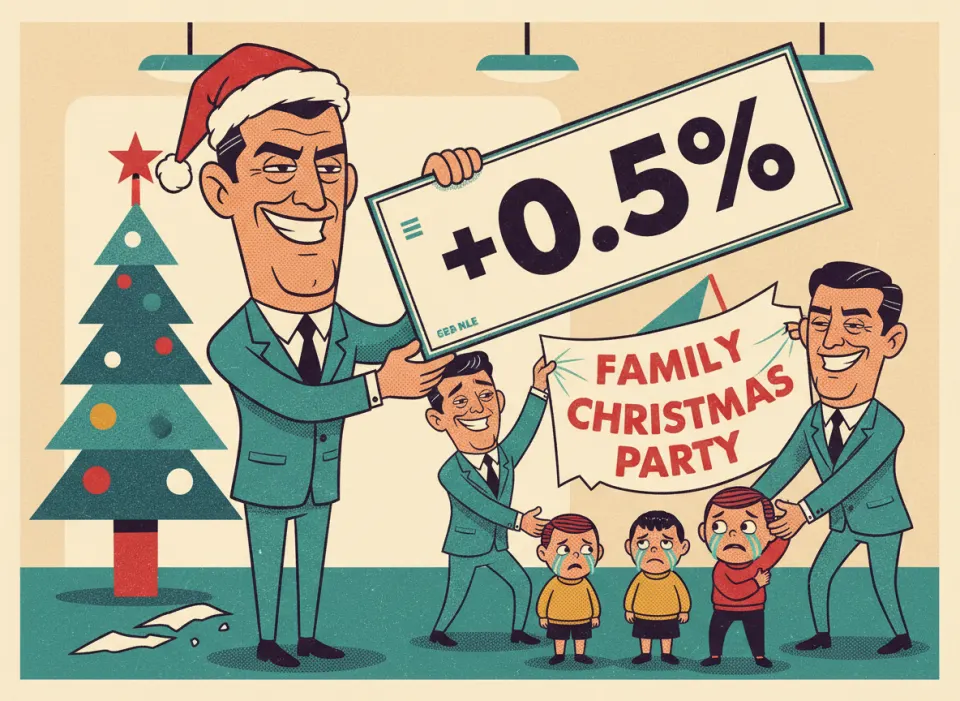
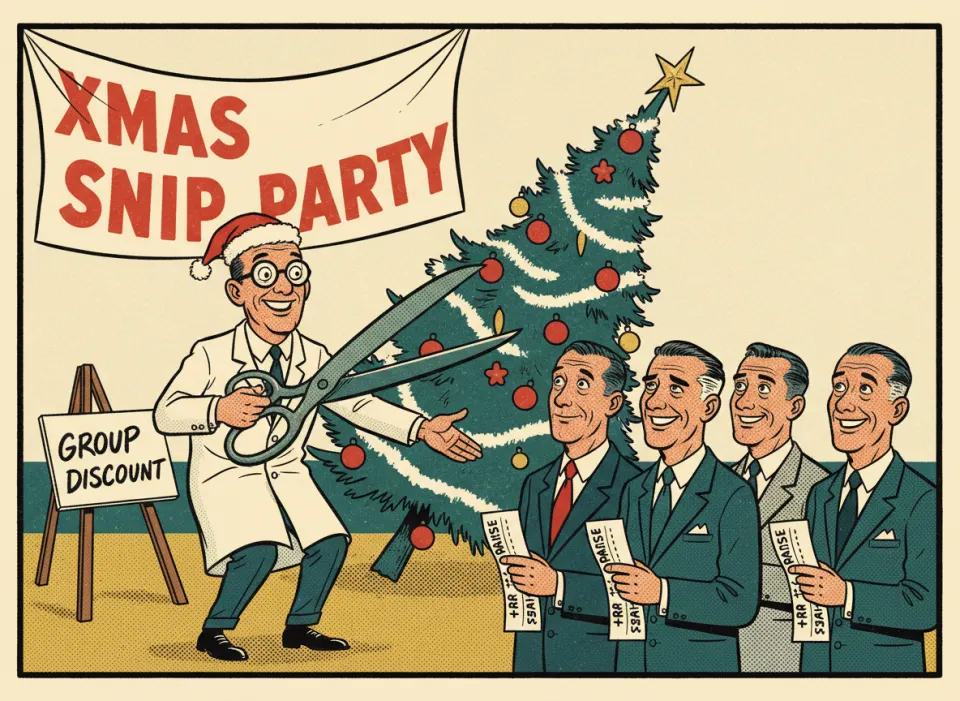
Fix RHR-003: it's a Christmas vasectomy event, not a cancelled party
"Snippe" means getting a vasectomy. Rewrite the policy text and
regenerate its illustration to match.

diff --git a/p/christmas/index.html b/p/christmas/index.html
@@ -3,8 +3,8 @@
 <head>
 <meta charset="utf-8">
 <meta name="viewport" content="width=device-width, initial-scale=1">
-<title>Cut the family Christmas party · Radical HR</title>
-<meta name="description" content="Turn the kids&#x27; Christmas party into a pay rise, then apply a volume discount to the rise. Win-win.">
+<title>Host a family Christmas snip party: get the snip, get a raise · Radical HR</title>
+<meta name="description" content="Every employee who gets a vasectomy at the company Christmas event gets a pay rise. The clinic gives us a volume discount, and parental leave becomes a thing of the past. Win-win.">
 <meta name="theme-color" content="#132325">
 <link rel="canonical" href="https://radical-hr.lillefar.com/p/christmas/">
 <link rel="icon" href="../../favicon.svg" type="image/svg+xml">
@@ -12,19 +12,19 @@
 <meta property="og:type" content="article">
 <meta property="og:site_name" content="Radical HR">
 <meta property="og:locale" content="en_US">
-<meta property="og:title" content="Cut the family Christmas party">
-<meta property="og:description" content="Turn the kids&#x27; Christmas party into a pay rise, then apply a volume discount to the rise. Win-win.">
+<meta property="og:title" content="Host a family Christmas snip party: get the snip, get a raise">
+<meta property="og:description" content="Every employee who gets a vasectomy at the company Christmas event gets a pay rise. The clinic gives us a volume discount, and parental leave becomes a thing of the past. Win-win.">
 <meta property="og:url" content="https://radical-hr.lillefar.com/p/christmas/">
 <meta property="og:image" content="https://radical-hr.lillefar.com/og/christmas.jpg">
 <meta property="og:image:type" content="image/jpeg">
 <meta property="og:image:width" content="1200">
 <meta property="og:image:height" content="630">
-<meta property="og:image:alt" content="Satirical 1950s-style illustration: Cut the family Christmas party">
+<meta property="og:image:alt" content="Satirical 1950s-style illustration: Host a family Christmas snip party: get the snip, get a raise">
 <meta name="twitter:card" content="summary_large_image">
-<meta name="twitter:title" content="Cut the family Christmas party">
-<meta name="twitter:description" content="Turn the kids&#x27; Christmas party into a pay rise, then apply a volume discount to the rise. Win-win.">
+<meta name="twitter:title" content="Host a family Christmas snip party: get the snip, get a raise">
+<meta name="twitter:description" content="Every employee who gets a vasectomy at the company Christmas event gets a pay rise. The clinic gives us a volume discount, and parental leave becomes a thing of the past. Win-win.">
 <meta name="twitter:image" content="https://radical-hr.lillefar.com/og/christmas.jpg">
-<meta name="twitter:image:alt" content="Satirical 1950s-style illustration: Cut the family Christmas party">
+<meta name="twitter:image:alt" content="Satirical 1950s-style illustration: Host a family Christmas snip party: get the snip, get a raise">
 <link rel="preconnect" href="https://fonts.googleapis.com">
 <link rel="preconnect" href="https://fonts.gstatic.com" crossorigin>
 <link href="https://fonts.googleapis.com/css2?family=Fraunces:opsz,wght@9..144,400;9..144,700;9..144,900&family=IBM+Plex+Mono:wght@400;600&display=swap" rel="stylesheet">
@@ -45,25 +45,25 @@
 
   <article class="single">
     <div class="art">
-      <img src="../../img/christmas.webp" width="960" height="720" alt="Illustration: Cut the family Christmas party">
+      <img src="../../img/christmas.webp" width="960" height="720" alt="Illustration: Host a family Christmas snip party: get the snip, get a raise">
       <span class="stamp">WIN-WIN</span>
     </div>
     <div>
-      <div class="meta"><span>Policy RHR-003</span><span>Compensation</span></div>
-      <h1>Cut the family Christmas party</h1>
-      <p class="spin">Turn the kids&#x27; Christmas party into a pay rise, then apply a volume discount to the rise. Win-win.</p>
+      <div class="meta"><span>Policy RHR-003</span><span>Benefits</span></div>
+      <h1>Host a family Christmas snip party: get the snip, get a raise</h1>
+      <p class="spin">Every employee who gets a vasectomy at the company Christmas event gets a pay rise. The clinic gives us a volume discount, and parental leave becomes a thing of the past. Win-win.</p>
       <dl class="kpi">
-        <div><dt>Productivity</dt><dd class="pos">+2%</dd></div>
-        <div><dt>Morale</dt><dd class="neg">−18%</dd></div>
+        <div><dt>Productivity</dt><dd class="pos">+9%</dd></div>
+        <div><dt>Morale</dt><dd class="neg">−40%</dd></div>
       </dl>
       <div class="share">
         <span>Forward to your manager</span>
         <button type="button" id="copy">Copy link</button>
         <button type="button" id="native" hidden>Share…</button>
         <a href="https://www.linkedin.com/sharing/share-offsite/?url=https%3A%2F%2Fradical-hr.lillefar.com%2Fp%2Fchristmas%2F" target="_blank" rel="noopener">LinkedIn</a>
-        <a href="https://x.com/intent/post?url=https%3A%2F%2Fradical-hr.lillefar.com%2Fp%2Fchristmas%2F&amp;text=Cut%20the%20family%20Christmas%20party" target="_blank" rel="noopener">X</a>
+        <a href="https://x.com/intent/post?url=https%3A%2F%2Fradical-hr.lillefar.com%2Fp%2Fchristmas%2F&amp;text=Host%20a%20family%20Christmas%20snip%20party%3A%20get%20the%20snip%2C%20get%20a%20raise" target="_blank" rel="noopener">X</a>
         <a href="https://www.facebook.com/sharer/sharer.php?u=https%3A%2F%2Fradical-hr.lillefar.com%2Fp%2Fchristmas%2F" target="_blank" rel="noopener">Facebook</a>
-        <a href="mailto:?subject=Cut%20the%20family%20Christmas%20party&amp;body=https%3A%2F%2Fradical-hr.lillefar.com%2Fp%2Fchristmas%2F">Email</a>
+        <a href="mailto:?subject=Host%20a%20family%20Christmas%20snip%20party%3A%20get%20the%20snip%2C%20get%20a%20raise&amp;body=https%3A%2F%2Fradical-hr.lillefar.com%2Fp%2Fchristmas%2F">Email</a>
       </div>
     </div>
   </article>

diff --git a/p/applicant/index.html b/p/applicant/index.html
@@ -70,7 +70,7 @@
 
   <nav class="pager" aria-label="More policies">
     <a href="../parking/"><small>← Previous policy</small><b>Fewer parking spots than employees with cars</b></a>
-    <a href="../christmas/"><small>Next policy →</small><b>Cut the family Christmas party</b></a>
+    <a href="../christmas/"><small>Next policy →</small><b>Host a family Christmas snip party: get the snip, get a raise</b></a>
   </nav>
 
   <p class="disclaimer"><b>Disclaimer:</b> These policies are only <em>inspired by</em> the truth. Each one started with something that really happened at work, then got exaggerated until it fit on a poster. No real manager, colleague or HR department is depicted, and none of this is advice. Please don't try it at work.</p>

diff --git a/ideas.js b/ideas.js
@@ -22,11 +22,11 @@ window.IDEAS = [
   },
   {
     "slug": "christmas",
-    "dept": "Compensation",
-    "title": "Cut the family Christmas party",
-    "spin": "Turn the kids' Christmas party into a pay rise, then apply a volume discount to the rise. Win-win.",
-    "prod": "+2%",
-    "morale": "−18%",
+    "dept": "Benefits",
+    "title": "Host a family Christmas snip party: get the snip, get a raise",
+    "spin": "Every employee who gets a vasectomy at the company Christmas event gets a pay rise. The clinic gives us a volume discount, and parental leave becomes a thing of the past. Win-win.",
+    "prod": "+9%",
+    "morale": "−40%",
     "stamp": "WIN-WIN",
     "code": "RHR-003"
   },

diff --git a/p/afternoon/index.html b/p/afternoon/index.html
@@ -69,7 +69,7 @@
   </article>
 
   <nav class="pager" aria-label="More policies">
-    <a href="../christmas/"><small>← Previous policy</small><b>Cut the family Christmas party</b></a>
+    <a href="../christmas/"><small>← Previous policy</small><b>Host a family Christmas snip party: get the snip, get a raise</b></a>
     <a href="../esteem/"><small>Next policy →</small><b>Build up employees&#x27; self-esteem so you can break it down</b></a>
   </nav>
 

diff --git a/tools/generate.py b/tools/generate.py
@@ -44,9 +44,10 @@ IDEAS = {
     "applicant": "A smug manager holds up a glowing resume with five gold stars and a photo of an impossibly "
                  "perfect young genius, showing it to a nervous employee at her desk who is sweating and "
                  "clutching her coffee mug.",
-    "christmas": "A beaming manager in a Santa hat stands next to a Christmas tree, holding a big check that "
-                 "reads '+0.5%'. Behind him a 'FAMILY CHRISTMAS PARTY' banner is being torn down. "
-                 "Small children look on in tears.",
+    "christmas": "A festive company Christmas party in the office, decorated with a tree and tinsel. A beaming "
+                 "manager in a Santa hat welcomes a queue of visibly nervous male employees in suits toward a "
+                 "doctor in a white coat holding a giant pair of scissors. A banner reads 'XMAS SNIP PARTY' and "
+                 "a sign reads 'GROUP DISCOUNT'. Each man in the queue clutches a pay slip reading '+RAISE'.",
     "afternoon": "A cheerful open-plan office at 2 o'clock on a weekday. Rosy-cheeked employees raise beer mugs "
                  "at their desks while a wall clock shows 2:00. A rising sales chart on the wall.",
     "esteem": "A manager hoists a delighted employee high onto a tall pedestal labeled 'STAR', while holding "
